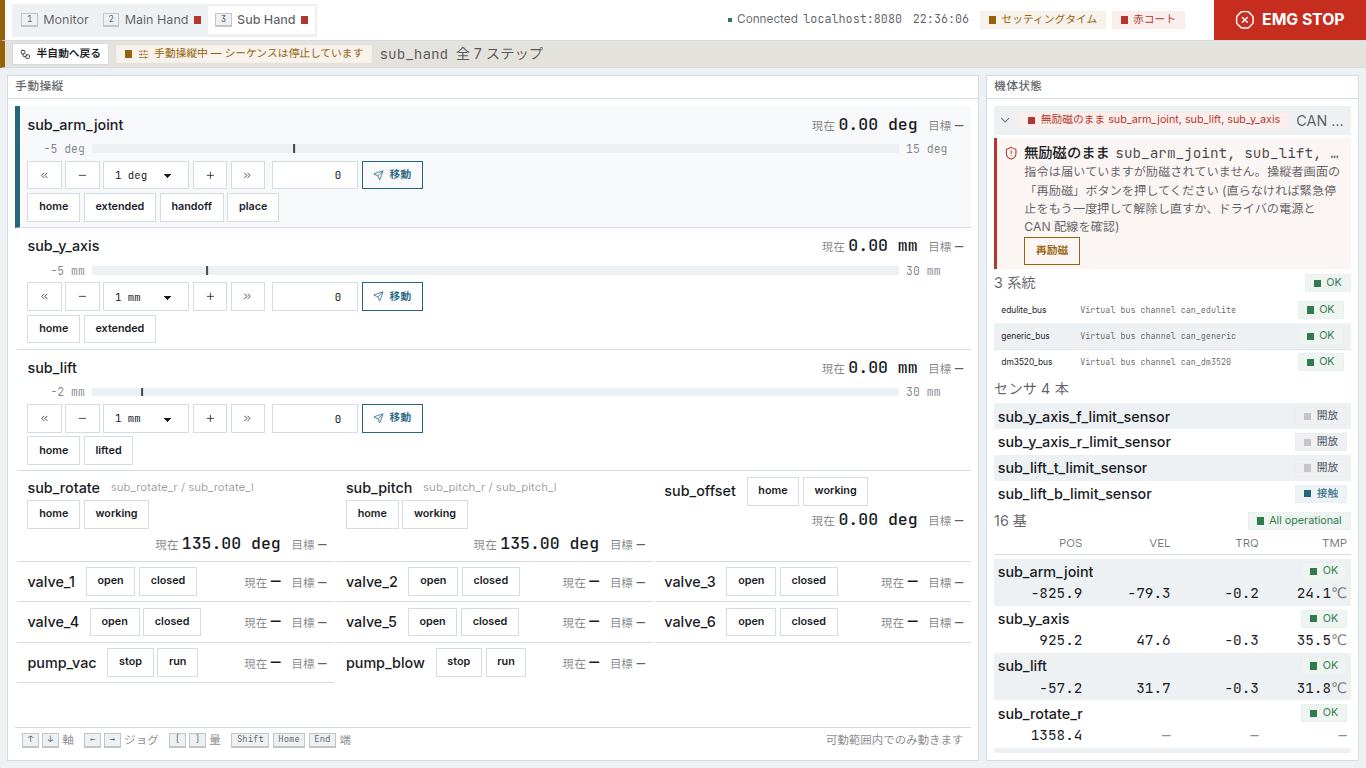
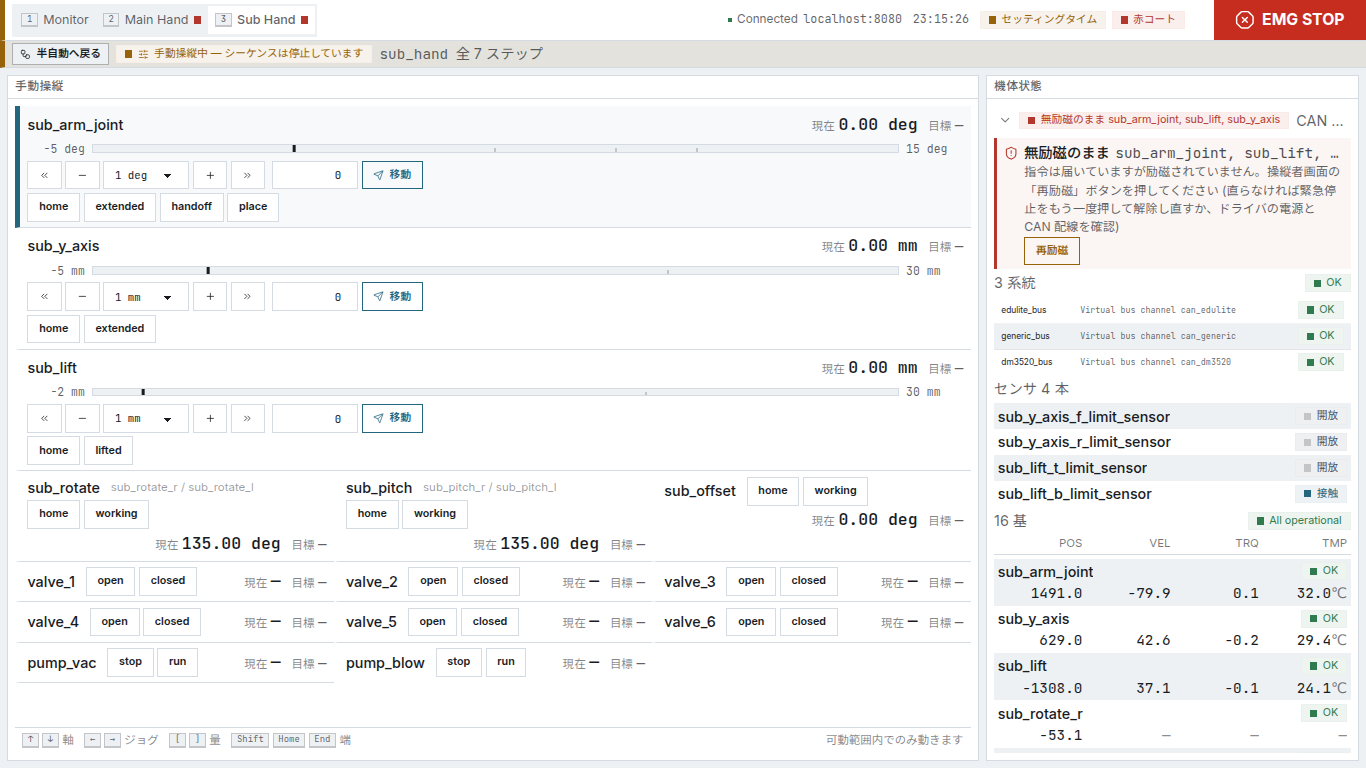
docs: 準備中の操縦者画面と可動範囲バーの Before / After を追加
- `*-operator-setup.png` を新設 (準備中・半自動)
- `after-manual-subhand.png` を撮り直し (可動範囲バーの輪郭とプリセットの刻み)
- Before を撮るときは UI だけでなくサーバー (`lib/manual.py`) も main へ戻す
  —— 配信の形が食い違って `RouteErrorBoundary` が発火し、「描画に失敗しました」
  しか撮れない

Claude-Session: https://claude.ai/code/session_01L9jT4NhsLHkgw3YuAvux7n

diff --git a/docs/web/images/README.md b/docs/web/images/README.md
@@ -8,12 +8,19 @@
 | `*-monitor-match.png` | Monitor・試合中 | 残り時間が出る / モータが 0 基 → 5 基見える / 空の EventFeed が 27% → 1 行 |
 | `*-setup-checklist.png` | Monitor・準備中（10 項目チェック後） | 「次」へ自動スクロールし、動作確認ボタンが画面内に来る |
 | `*-startgate.png` | Monitor・準備中（全チェック後） | 同じ無励磁を「要確認」→「異常」と呼ぶ（タブの LED と語彙が揃う） |
-| `*-manual-subhand.png` | サブハンド・手動操縦 | 電磁弁 6 + ポンプ 2 が画面外 → 8 個ともスクロールなしで押せる |
+| `*-operator-setup.png` | サブハンド・準備中（半自動） | 機体状態 1 枚だけ → これから流す手順が右列に出る |
+| `*-manual-subhand.png` | サブハンド・手動操縦 | 電磁弁 6 + ポンプ 2 が画面外 → 8 個ともスクロールなしで押せる / 可動範囲バーにプリセットの刻み |
 
 **撮り直すとき**も同じ手順で撮ること（差が見えなくなる）:
 
 1. `--dry-run --dev-tools` で起動し、ブラウザを 1366×768 にする
-2. サブハンドを手動操縦へ切り替えて撮る
-3. Monitor で先頭 10 項目をチェックして撮る
-4. DEV 全チェックで撮る
-5. 二度押しで試合を開始して撮る
+2. サブハンドを開いたまま撮る（準備中・半自動）
+3. サブハンドを手動操縦へ切り替えて撮る
+4. Monitor で先頭 10 項目をチェックして撮る
+5. DEV 全チェックで撮る
+6. 二度押しで試合を開始して撮る
+
+**Before は `main` の UI と `main` のサーバーで撮る。** UI だけを `main` に戻すと、
+`state.manual.axes[].positions` の形が食い違って `RouteErrorBoundary` が発火し、
+撮れるのは「この画面の描画に失敗しました」になる（`git checkout main -- web/src lib/manual.py`
+まで戻してサーバーを起動し直すこと）。
